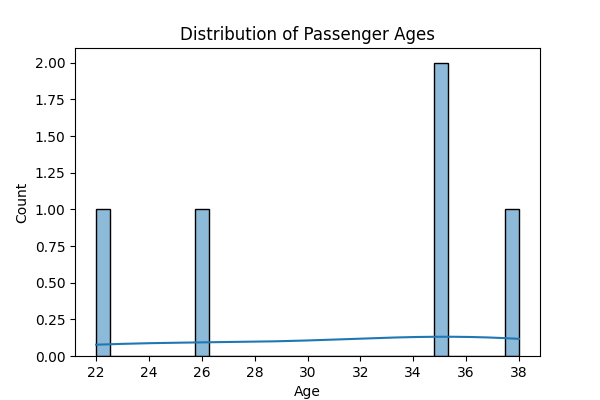
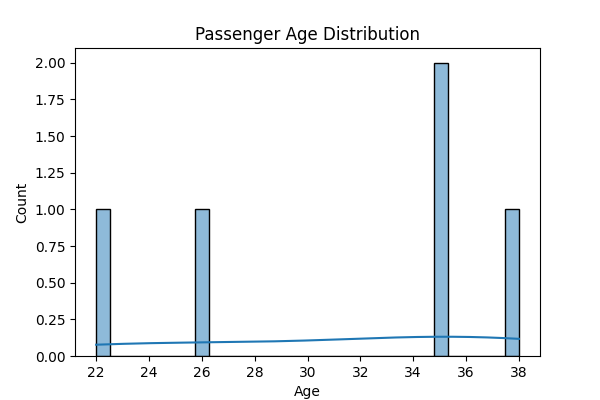
Upload Project

Changed region(s): [[0.3, 0.06, 0.72, 0.12]]

diff --git a/templates/index.html b/templates/index.html
@@ -1,15 +1,123 @@
 <!DOCTYPE html>
-<html>
+<html lang="en">
 <head>
+    <meta charset="UTF-8">
     <title>Titanic EDA Visualization</title>
+    <link href="https://fonts.googleapis.com/css2?family=Roboto:wght@400;700&display=swap" rel="stylesheet">
+    <style>
+        body {
+            font-family: 'Roboto', sans-serif;
+            background-color: #f7f9fc;
+            margin: 0;
+            padding: 0;
+            text-align: center;
+        }
+
+        h1 {
+            color: #2c3e50;
+            margin-top: 30px;
+            font-size: 2.5em;
+        }
+
+        .container {
+            display: flex;
+            flex-direction: column;
+            align-items: center;
+            margin: 30px;
+        }
+
+        .card {
+            background-color: white;
+            border-radius: 12px;
+            box-shadow: 0 4px 12px rgba(0,0,0,0.1);
+            margin: 20px 0;
+            padding: 20px;
+            max-width: 700px;
+            width: 90%;
+            transition: transform 0.3s ease;
+        }
+
+        .card:hover {
+            transform: scale(1.01);
+        }
+
+        .card h3 {
+            color: #34495e;
+            font-size: 1.4em;
+            margin-bottom: 15px;
+        }
+
+        .card img {
+            width: 100%;
+            border-radius: 8px;
+        }
+
+        @media (max-width: 600px) {
+            .card img {
+                width: 100%;
+            }
+
+            h1 {
+                font-size: 2em;
+            }
+        }
+    </style>
 </head>
-<body style="text-align:center; font-family:sans-serif;">
+<body>
+
     <h1>Titanic Data Visualizations</h1>
-    <h3>Survival Count</h3>
-    <img src="/static/visualizations/survival_count.png" width="500">
-    <h3>Age Distribution</h3>
-    <img src="/static/visualizations/age_distribution.png" width="500">
-    <h3>Passenger Class vs Survival</h3>
-    <img src="/static/visualizations/class_vs_survival.png" width="500">
+
+    <div class="container">
+        <div class="card">
+            <h3>Survival Count</h3>
+            <img src="/static/visualizations/survival_count.png" alt="Survival Count">
+        </div>
+
+        <div class="card">
+            <h3>Age Distribution</h3>
+            <img src="/static/visualizations/age_distribution.png" alt="Age Distribution">
+        </div>
+
+        <div class="card">
+            <h3>Passenger Class vs Survival</h3>
+            <img src="/static/visualizations/class_vs_survival.png" alt="Class vs Survival">
+        </div>
+
+        <div class="card">
+            <h3>Gender Distribution</h3>
+            <img src="/static/visualizations/gender_distribution.png" alt="Gender Distribution">
+        </div>
+
+        <div class="card">
+            <h3>Gender vs Survival</h3>
+            <img src="/static/visualizations/gender_vs_survival.png" alt="Gender vs Survival">
+        </div>
+
+        <div class="card">
+            <h3>Fare Distribution</h3>
+            <img src="/static/visualizations/fare_distribution.png" alt="Fare Distribution">
+        </div>
+
+        <div class="card">
+            <h3>Embarkation Port Distribution</h3>
+            <img src="/static/visualizations/embarked_distribution.png" alt="Embarked Port Distribution">
+        </div>
+
+        <div class="card">
+            <h3>Survival by Embarkation Port</h3>
+            <img src="/static/visualizations/embarked_vs_survival.png" alt="Embarked vs Survival">
+        </div>
+
+        <div class="card">
+            <h3>Age vs Fare (Colored by Survival)</h3>
+            <img src="/static/visualizations/age_vs_fare.png" alt="Age vs Fare">
+        </div>
+
+        <div class="card">
+            <h3>Correlation Heatmap</h3>
+            <img src="/static/visualizations/correlation_heatmap.png" alt="Correlation Heatmap">
+        </div>
+    </div>
+
 </body>
 </html>

diff --git a/app.py b/app.py
@@ -8,37 +8,79 @@ app = Flask(__name__)
 
 @app.route('/')
 def home():
-    # Load the Titanic dataset
+    # Load dataset
     data = pd.read_csv('static/titanic.csv')
 
-    # Create directory for storing plots if not already existing
-    output_dir = "static/visualizations"
-    if not os.path.exists(output_dir):
-        os.makedirs(output_dir)
+    # Ensure visualization directory exists
+    vis_dir = "static/visualizations"
+    if not os.path.exists(vis_dir):
+        os.makedirs(vis_dir)
 
-    # Plot 1: Survival count
+    # Plot 1: Survival Count
     plt.figure(figsize=(6, 4))
     sns.countplot(x='Survived', data=data)
     plt.title("Survival Overview")
-    plt.savefig(os.path.join(output_dir, 'survival_count.png'))
+    plt.savefig(f"{vis_dir}/survival_count.png")
     plt.clf()
 
-    # Plot 2: Age distribution
+    # Plot 2: Age Distribution
     sns.histplot(data['Age'], bins=30, kde=True)
-    plt.title("Distribution of Passenger Ages")
-    plt.savefig(os.path.join(output_dir, 'age_distribution.png'))
+    plt.title("Passenger Age Distribution")
+    plt.savefig(f"{vis_dir}/age_distribution.png")
     plt.clf()
 
-    # Plot 3: Passenger class vs survival
+    # Plot 3: Class vs Survival
     sns.countplot(x='Pclass', hue='Survived', data=data)
-    plt.title("Survival Rate by Class")
-    plt.savefig(os.path.join(output_dir, 'class_vs_survival.png'))
+    plt.title("Passenger Class vs Survival")
+    plt.savefig(f"{vis_dir}/class_vs_survival.png")
+    plt.clf()
+
+    # Plot 4: Gender Count
+    sns.countplot(x='Sex', data=data)
+    plt.title("Gender Distribution")
+    plt.savefig(f"{vis_dir}/gender_distribution.png")
+    plt.clf()
+
+    # Plot 5: Gender vs Survival
+    sns.countplot(x='Sex', hue='Survived', data=data)
+    plt.title("Gender vs Survival")
+    plt.savefig(f"{vis_dir}/gender_vs_survival.png")
+    plt.clf()
+
+    # Plot 6: Fare Distribution
+    sns.histplot(data['Fare'], bins=40, kde=True)
+    plt.title("Fare Distribution")
+    plt.savefig(f"{vis_dir}/fare_distribution.png")
+    plt.clf()
+
+    # Plot 7: Embarked Port Count
+    sns.countplot(x='Embarked', data=data)
+    plt.title("Embarkation Port Distribution")
+    plt.savefig(f"{vis_dir}/embarked_distribution.png")
+    plt.clf()
+
+    # Plot 8: Embarked vs Survival
+    sns.countplot(x='Embarked', hue='Survived', data=data)
+    plt.title("Survival by Embarkation Port")
+    plt.savefig(f"{vis_dir}/embarked_vs_survival.png")
+    plt.clf()
+
+    # Plot 9: Age vs Fare (scatter)
+    plt.figure(figsize=(6, 4))
+    sns.scatterplot(x='Age', y='Fare', hue='Survived', data=data)
+    plt.title("Age vs Fare (Colored by Survival)")
+    plt.savefig(f"{vis_dir}/age_vs_fare.png")
+    plt.clf()
+
+    # Plot 10: Heatmap of Correlation
+    plt.figure(figsize=(6, 4))
+    corr = data[['Survived', 'Pclass', 'Age', 'SibSp', 'Parch', 'Fare']].corr()
+    sns.heatmap(corr, annot=True, cmap='coolwarm', fmt=".2f")
+    plt.title("Correlation Heatmap")
+    plt.savefig(f"{vis_dir}/correlation_heatmap.png")
     plt.clf()
 
     return render_template('index.html')
 
 if __name__ == '__main__':
     app.run(debug=True)
-    
-    
-    

diff --git a/README.md b/README.md
@@ -22,8 +22,18 @@ This project performs **Exploratory Data Analysis (EDA)** on the Titanic dataset
 2. Navigate into the project directory and install dependencies:
 
 ```bash
-pip install -r requirements.txt
 
-python app.py
+## 🔗 To Create Virtual Environment
+To create virtual env --> Python -m venv Name_of_Virtual_env (for e.g. --> python -m venv myenv)  
+To activate --> Name_of_virtual_env/Scripts/activate (for e.g. --> myenv/Scripts/activate)
+
+## 🖥 To Install Dependencies (Use any one command (first one recommended))
+pip install -r requirements.txt  
+pip install flask
+
+
+## 🚀 Live Demo  
+Check out the live deployed project here: [View Project on Render](https://celebal-task-3.onrender.com)
+
 
 
